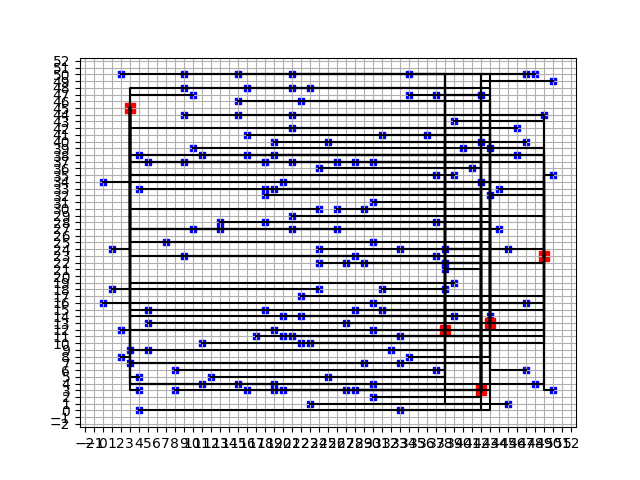
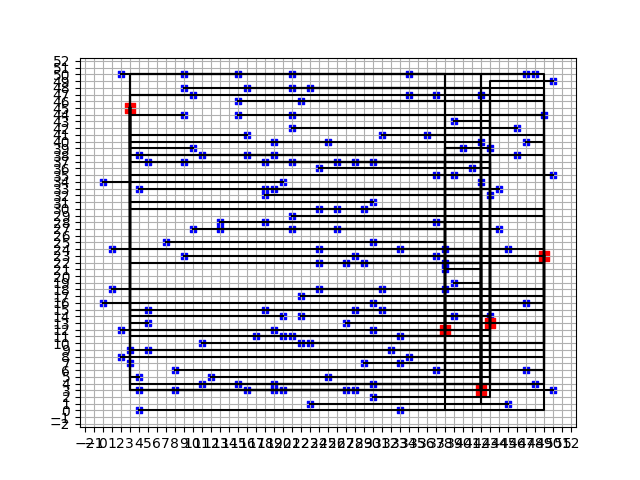
hillclimber

diff --git a/main.py b/main.py
@@ -18,47 +18,46 @@ def hillclimber(houses, wires):
 def main(wijk_num: str, iterations: int,  restart, save_changes: bool,) -> None:
     cost_record = []
     count = 0
-    # init
+    lowest_cost = 99999999
     houses = Houses(f'data/district_{wijk_num}/district-{wijk_num}_houses.csv')             # noqa: E501
     batteries = Batteries(f'data/district_{wijk_num}/district-{wijk_num}_batteries.csv')    # noqa: E501
     wires = Wires()
-    lowest_cost = 999999
+    grid = False
+    while grid == False:
+        grid = wires.generate(houses, batteries)
+    wires.shared_wires = wires.share_wires(wires.wires)
+    cost = calculate_shared_cost(wires.shared_wires, batteries)
+    cost_record.append(cost)
     for i in range(iterations):
-        houses.disconnect_all()
-        batteries.disconnect_all()
-        grid = False
-        while grid == False:
-            grid = wires.generate(houses, batteries)
-        wires.shared_wires = wires.share_wires(wires.wires)
-        cost = calculate_shared_cost(wires.shared_wires, batteries)
+        count += 1
+        new_wires = hillclimber(houses, wires)
+        new_shared_wires = wires.share_wires(new_wires)
+        new_cost = calculate_shared_cost(new_shared_wires, batteries)
+        print(f"iteration {i}, lowest_ cost {lowest_cost}, cost {cost}, new_cost {new_cost}, count {count}")
+        if new_cost < cost:
+            cost = new_cost
+            wires.wires = new_wires
+            wires.shared_wires = new_shared_wires
+            count = 0
         cost_record.append(cost)
-        count = 0
-        it = 0
-        while count < restart:
-            print(f"iteration {it}, cost {cost}")
-            it += 1
-            new_wires = hillclimber(houses, wires)
-            new_shared_wires = wires.share_wires(new_wires)
-            new_cost = calculate_shared_cost(new_shared_wires, batteries)
-            print(new_cost)
-            if new_cost < cost:
-                cost = new_cost
-                wires.wires = new_wires
-                wires.shared_wires = new_shared_wires
-                count = 0
-            else:
-                count += 1
-            cost_record.append(cost)
-        if cost < lowest_cost:
+        if count > restart:
+            houses.disconnect_all()
+            batteries.disconnect_all()
+            grid = False
+            while grid == False:
+                grid = wires.generate(houses, batteries)
+            wires.shared_wires = wires.share_wires(wires.wires)
+            cost = calculate_shared_cost(wires.shared_wires, batteries)
+            count = 0
+        if lowest_cost > cost:
             lowest_cost = cost
-    print(lowest_cost)
     # Plot grid and save
     if save_changes is True:
         visualize_grid(houses.get_member_coords(),
         batteries.get_member_coords(),
         wires.get_paths(), f'output/smartgrid_wijk_{wijk_num}.png')
 
-        dict_json = {"district" : wijk_num, "shared-costs" : cost}
+        dict_json = {"district" : wijk_num, "shared-costs" : lowest_cost}
         json_object = json.dumps(dict_json, indent = 2)
         with open(f'output/smartgrid_wijk_{wijk_num}.json', "w") as outfile:
             outfile.write(json_object)
